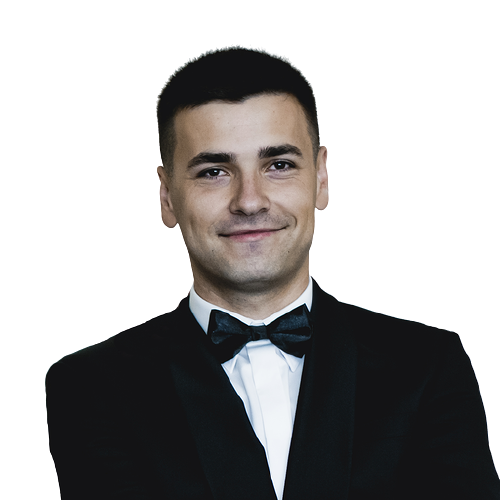
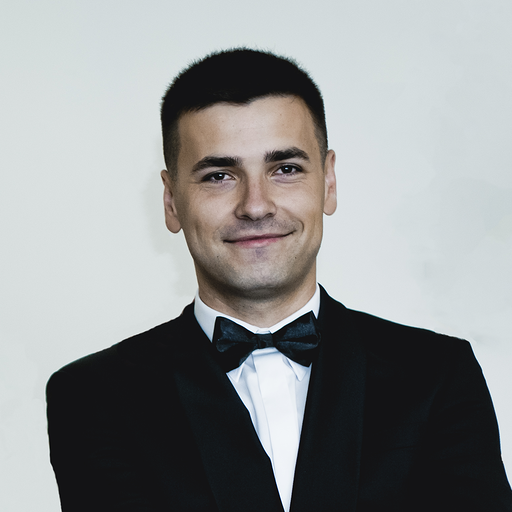
Refactor

diff --git a/www/index.html b/www/index.html
@@ -13,7 +13,7 @@
 
     <link rel="canonical" href="https://www.danielmichalski.com">
     <!-- Favicon -->
-    <link rel="shortcut icon" href="images/favicon.ico">
+    <link rel="shortcut icon" href="images/icon/favicon.ico">
     <!-- Bootstrap -->
     <link href="css/bootstrap.min.css" rel="stylesheet" type="text/css"/>
     <!-- Magnific -->
@@ -79,7 +79,7 @@
 <!-- Navbar End -->
 
 <!-- HOME START-->
-<section class="bg-home d-table w-100" style="background-image:url('images/home/video.jpg')" id="home">
+<section class="bg-home d-table w-100" style="background-image:url('images/video.jpg')" id="home">
     <div class="bg-overlay bg-over-image"></div>
     <a id="video" class="player"
        data-property="{videoURL:'https://www.youtube.com/watch?v=m5wisWO8TSA',containment:'#home', showControls:false, autoPlay:true, loop:true, mute:true, startAt:0, opacity:1, optimizeDisplay:true, useOnMobile:false, realfullscreen:true}"></a>
@@ -93,7 +93,7 @@
                          data-aos-mirror="true"
                          data-aos-once="false"
                          data-aos-anchor-placement="top-bottom">
-                        <img src="images/home/hero.png" class="img-fluid rounded-circle" alt="Daniel Michalski">
+                        <img src="images/hero.png" class="img-fluid rounded-circle" alt="Daniel Michalski">
                     </div>
                     <div data-aos="fade-up" data-aos-duration="1100" data-aos-delay="700" data-aos-mirror="true"
                          data-aos-once="false" data-aos-anchor-placement="top-bottom">
@@ -129,7 +129,7 @@
         <div class="row align-items-center">
             <div class="col-lg-5 col-md-5">
                 <div class="about-hero">
-                    <img src="images/hero.png" class="img-fluid mx-auto d-block about-tween position-relative hero"
+                    <img src="images/hero-transparent.png" class="img-fluid mx-auto d-block about-tween position-relative hero"
                          alt="Daniel Michalski">
                 </div>
             </div><!--end col-->
@@ -772,11 +772,9 @@
 
 <!-- Skill & CTA START -->
 <section class="cta-full section border-top" id="expertise">
-    <div class="container-fluid">
-        <div class="row position-relative">
-            <div class="col-lg-4 padding-less img" style="background-image:url('images/expertise.png')"
-                 data-jarallax='{"speed": 0.5}'></div><!-- end col -->
-            <div class="col-lg-8 offset-lg-4">
+    <div class="container">
+        <div class="row">
+            <div class="col-lg-7 col-md-12 col-sm-12 offset-lg-5 offset-md-0 offset-sm-0">
                 <div class="cta-full-img-box">
                     <div class="row justify-content-center">
                         <div class="col-12 text-center">
@@ -791,7 +789,14 @@
                             </div>
                         </div><!--end col-->
                     </div><!--end row-->
-
+                </div> <!-- end about detail -->
+            </div> <!-- end col -->
+        </div><!--end row-->
+        <div class="row">
+            <div class="col-lg-5 col-md-12 col-sm-12 align-self-center text-center">
+                <img src="images/expertise.png" class="expertise-img" alt="Java expertise">
+            </div><!-- end col -->
+            <div class="col-lg-7 col-md-12 col-sm-12">
                     <div class="row align-items-center">
                         <div class="col-lg-3 col-md-4 col-12">
                             <ul class="nav nav-pills flex-column px-0" id="pills-tab" role="tablist">
@@ -1163,43 +1168,43 @@
 <!-- Back to top -->
 
 <!-- javascript -->
-<script src="js/jquery-3.5.1.min.js"></script>
-<script src="js/bootstrap.bundle.min.js"></script>
-<script src="js/jquery.easing.min.js"></script>
-<script src="js/scrollspy.min.js"></script>
+<script src="js/jquery/jquery-3.5.1.min.js"></script>
+<script src="js/bootstrap/bootstrap.bundle.min.js"></script>
+<script src="js/jquery/jquery.easing.min.js"></script>
+<script src="js/scrollspy/scrollspy.min.js"></script>
 <!-- SLIDER -->
-<script src="js/owl.carousel.min.js"></script>
+<script src="js/slider/owl.carousel.min.js"></script>
 <!-- Magnific Popup -->
-<script src="js/jquery.magnific-popup.min.js"></script>
-<script src="js/isotope.js"></script>
-<script src="js/portfolio-filter.js"></script>
-<script src="js/magnific.init.js"></script>
+<script src="js/magnific-popup/jquery.magnific-popup.min.js"></script>
+<script src="js/magnific-popup/isotope.min.js"></script>
+<script src="js/magnific-popup/portfolio-filter.js"></script>
+<script src="js/magnific-popup/jquery.magnific-popup.init.js"></script>
 <!-- Contact -->
-<script src="js/contact.js"></script>
+<script src="js/contact/contact.js"></script>
 <!-- Counter -->
-<script src="js/counter.init.js"></script>
+<script src="js/counter/counter.init.js"></script>
 <!-- Typed -->
-<script src="js/typed.js"></script>
-<script src="js/typed.init.js"></script>
+<script src="js/typed/typed.js"></script>
+<script src="js/typed/typed.init.js"></script>
 <!-- Tweenmax Js -->
-<script src="js/jquery-twennmax.js"></script>
-<script src="js/TweenMax.min.js"></script>
-<script src="js/jquery-twennmax.init.js"></script>
+<script src="js/tweenmax-js/jquery-twennmax.js"></script>
+<script src="js/tweenmax-js/TweenMax.min.js"></script>
+<script src="js/tweenmax-js/jquery-twennmax.init.js"></script>
 <!-- Feather icon -->
-<script src="js/feather.min.js"></script>
+<script src="js/feather-icon/feather.min.js"></script>
 <!-- Text rotate -->
-<script src="js/jquery.simple-text-rotator.js"></script>
-<script src="js/textrotate.init.js"></script>
+<script src="js/text-rotate/jquery.simple-text-rotator.js"></script>
+<script src="js/text-rotate/jquery.simple-text-rotator.init.js"></script>
 <!-- Video -->
-<script src="js/jquery.mb.YTPlayer.js"></script>
-<script src="js/YTplayer.init.js"></script>
+<script src="js/yt-player/jquery.mb.YTPlayer.js"></script>
+<script src="js/yt-player/jquery.mb.YTPlayer.init.js"></script>
 <!-- Switcher -->
-<script src="js/switcher.js"></script>
+<script src="js/switcher/switcher.js"></script>
 <!-- Main Js -->
-<script src="js/app.js"></script>
+<script src="js/app/app.js"></script>
 <!-- Animate on Scroll-->
-<script src="js/aos.js"></script>
-<script src="js/aos.init.js"></script>
+<script src="js/animate-on-scroll/aos.min.js"></script>
+<script src="js/animate-on-scroll/aos.init.js"></script>
 </body>
 
 </html>

diff --git a/www/scss/_cta.scss b/www/scss/_cta.scss
@@ -1,22 +1,17 @@
 //
 // .scss
 //
-.cta-full{
-    .container-fluid{
-        max-width: 100%;
-        .padding-less.img {
-            background: scroll center no-repeat;
-            background-size: cover;
-            position: absolute;
-            height: 100%;
+.cta-full {
+    img.expertise-img {
+        width: 100%;
+    }
+}
+
+@media (min-width: 769px) and (max-width: 1200px) {
+    .cta-full {
+        img.expertise-img {
+            width: 75%;
         }
-    }    
-    .cta-full-img-box{
-        padding: 100px 10%;
-    }       
-    .cta-full-head {
-        font-size: 22px;    
-        letter-spacing: 0.8px;
     }
 }
 
@@ -28,13 +23,12 @@
         }
         .cta-full-content {
             text-align: left !important;
-        }    
-    }
-}
-@media (max-width: 767px) {
-    .cta-full {
+        }
         .cta-full-img-box{
             padding: 60px 10%;
-        }  
+        }
+        img.expertise-img {
+            width: 90%;
+        }
     }
 }

diff --git a/www/css/style.css b/www/css/style.css
@@ -1608,23 +1608,15 @@ p.justify-text {
     margin: 0 0 0 15px;
   }
 }
-.cta-full .container-fluid {
-  max-width: 100%;
-}
-.cta-full .container-fluid .padding-less.img {
-  background: scroll center no-repeat;
-  background-size: cover;
-  position: absolute;
-  height: 100%;
-}
-.cta-full .cta-full-img-box {
-  padding: 100px 10%;
-}
-.cta-full .cta-full-head {
-  font-size: 22px;
-  letter-spacing: 0.8px;
+.cta-full img.expertise-img {
+  width: 100%;
 }
 
+@media (min-width: 769px) and (max-width: 1200px) {
+  .cta-full img.expertise-img {
+    width: 75%;
+  }
+}
 @media (max-width: 768px) {
   .cta-full .padding-less {
     position: relative !important;
@@ -1633,10 +1625,11 @@ p.justify-text {
   .cta-full .cta-full-content {
     text-align: left !important;
   }
-}
-@media (max-width: 767px) {
   .cta-full .cta-full-img-box {
     padding: 60px 10%;
+  }
+  .cta-full img.expertise-img {
+    width: 90%;
   }
 }
 .portfolioFilter li a {

diff --git a/www/js/counter/counter.init.js b/www/js/counter/counter.init.js
@@ -2,7 +2,7 @@
 var a = 0;
 $(window).scroll(function() {
     var oTop = $('#counter').offset().top - window.innerHeight;
-    if (a == 0 && $(window).scrollTop() > oTop) {
+    if (a === 0 && $(window).scrollTop() > oTop) {
         $('.counter-value').each(function() {
             var $this = $(this),
                 countTo = $this.attr('data-count');
@@ -13,7 +13,7 @@ $(window).scroll(function() {
                 },
 
                 {
-                    duration: 2000,
+                    duration: 3000,
                     easing: 'swing',
                     step: function() {
                         $this.text(Math.floor(this.countNum));

diff --git a/www/js/app/app.js b/www/js/app/app.js
@@ -71,7 +71,7 @@
     }); 
 
     $(".back-to-top").on("click", function() {
-        $("html, body").animate({ scrollTop: 0 }, 3000);
+        $("html, body").animate({ scrollTop: 0 }, 500);
         return false;
     });
     

diff --git a/www/js/yt-player/jquery.mb.YTPlayer.init.js b/www/js/yt-player/jquery.mb.YTPlayer.init.js
@@ -1,0 +1,1 @@
+$(".player").mb_YTPlayer();
